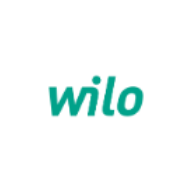
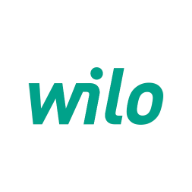
this is splash testing

Changed region(s): [[0.125, 0.3438, 0.875, 0.6562]]

diff --git a/wilopwa/app/splash-screen.tsx b/wilopwa/app/splash-screen.tsx
@@ -1,13 +1,13 @@
 "use client";
 
-import { useEffect, useRef, useState } from "react";
+import { useEffect, useState } from "react";
 
 // Only shown when launched standalone (installed PWA), not for regular
-// browser tab visits. Plays once per launch, then reveals the app.
+// browser tab visits. Plays a short logo-reveal animation, then reveals
+// the app underneath.
 export default function SplashScreen() {
   const [visible, setVisible] = useState(false);
   const [closing, setClosing] = useState(false);
-  const videoRef = useRef<HTMLVideoElement>(null);
 
   useEffect(() => {
     const nav = window.navigator as Navigator & { standalone?: boolean };
@@ -21,15 +21,13 @@ export default function SplashScreen() {
 
     setVisible(true);
 
-    // Fallback in case the video fails to load/play so the app never
-    // gets stuck behind the splash screen.
-    const fallback = window.setTimeout(() => setClosing(true), 4000);
-    return () => window.clearTimeout(fallback);
+    const closeTimer = window.setTimeout(() => setClosing(true), 2200);
+    return () => window.clearTimeout(closeTimer);
   }, []);
 
   useEffect(() => {
     if (closing) {
-      const timeout = window.setTimeout(() => setVisible(false), 300);
+      const timeout = window.setTimeout(() => setVisible(false), 500);
       return () => window.clearTimeout(timeout);
     }
   }, [closing]);
@@ -38,20 +36,20 @@ export default function SplashScreen() {
 
   return (
     <div
-      className={`fixed inset-0 z-[99999] flex items-center justify-center bg-white transition-opacity duration-300 ${
+      className={`fixed inset-0 z-[99999] flex items-center justify-center bg-gradient-to-br from-[#00b899] to-[#00664f] transition-opacity duration-500 ${
         closing ? "opacity-0" : "opacity-100"
       }`}
     >
-      <video
-        ref={videoRef}
-        src="/splash.mp4"
-        autoPlay
-        muted
-        playsInline
-        onEnded={() => setClosing(true)}
-        onError={() => setClosing(true)}
-        className="h-full w-full object-contain"
-      />
+      <div className="relative flex h-40 w-40 items-center justify-center">
+        <span className="splash-ripple" style={{ animationDelay: "0s" }} />
+        <span className="splash-ripple" style={{ animationDelay: "0.5s" }} />
+        <span className="splash-ripple" style={{ animationDelay: "1s" }} />
+        <img
+          src="https://wilo.com/resources/v124/img/wilologo.png"
+          alt="Wilo"
+          className="splash-logo relative z-10 w-32"
+        />
+      </div>
     </div>
   );
 }

diff --git a/wilopwa/app/globals.css b/wilopwa/app/globals.css
@@ -116,3 +116,43 @@ body {
 .pwa-install-out {
   animation: pwa-install-out 0.18s ease-in both;
 }
+
+/* Splash screen: logo scales/fades in while water-droplet ripple rings
+   expand outward behind it. */
+@keyframes splash-logo-in {
+  0% {
+    opacity: 0;
+    transform: scale(0.6);
+  }
+  60% {
+    opacity: 1;
+    transform: scale(1.08);
+  }
+  100% {
+    opacity: 1;
+    transform: scale(1);
+  }
+}
+
+@keyframes splash-ripple {
+  0% {
+    transform: scale(0.3);
+    opacity: 0.55;
+  }
+  100% {
+    transform: scale(2.6);
+    opacity: 0;
+  }
+}
+
+.splash-logo {
+  animation: splash-logo-in 0.7s cubic-bezier(0.16, 1, 0.3, 1) both;
+}
+
+.splash-ripple {
+  position: absolute;
+  inset: 0;
+  border: 2px solid rgba(255, 255, 255, 0.55);
+  border-radius: 9999px;
+  animation: splash-ripple 1.8s ease-out infinite;
+}
